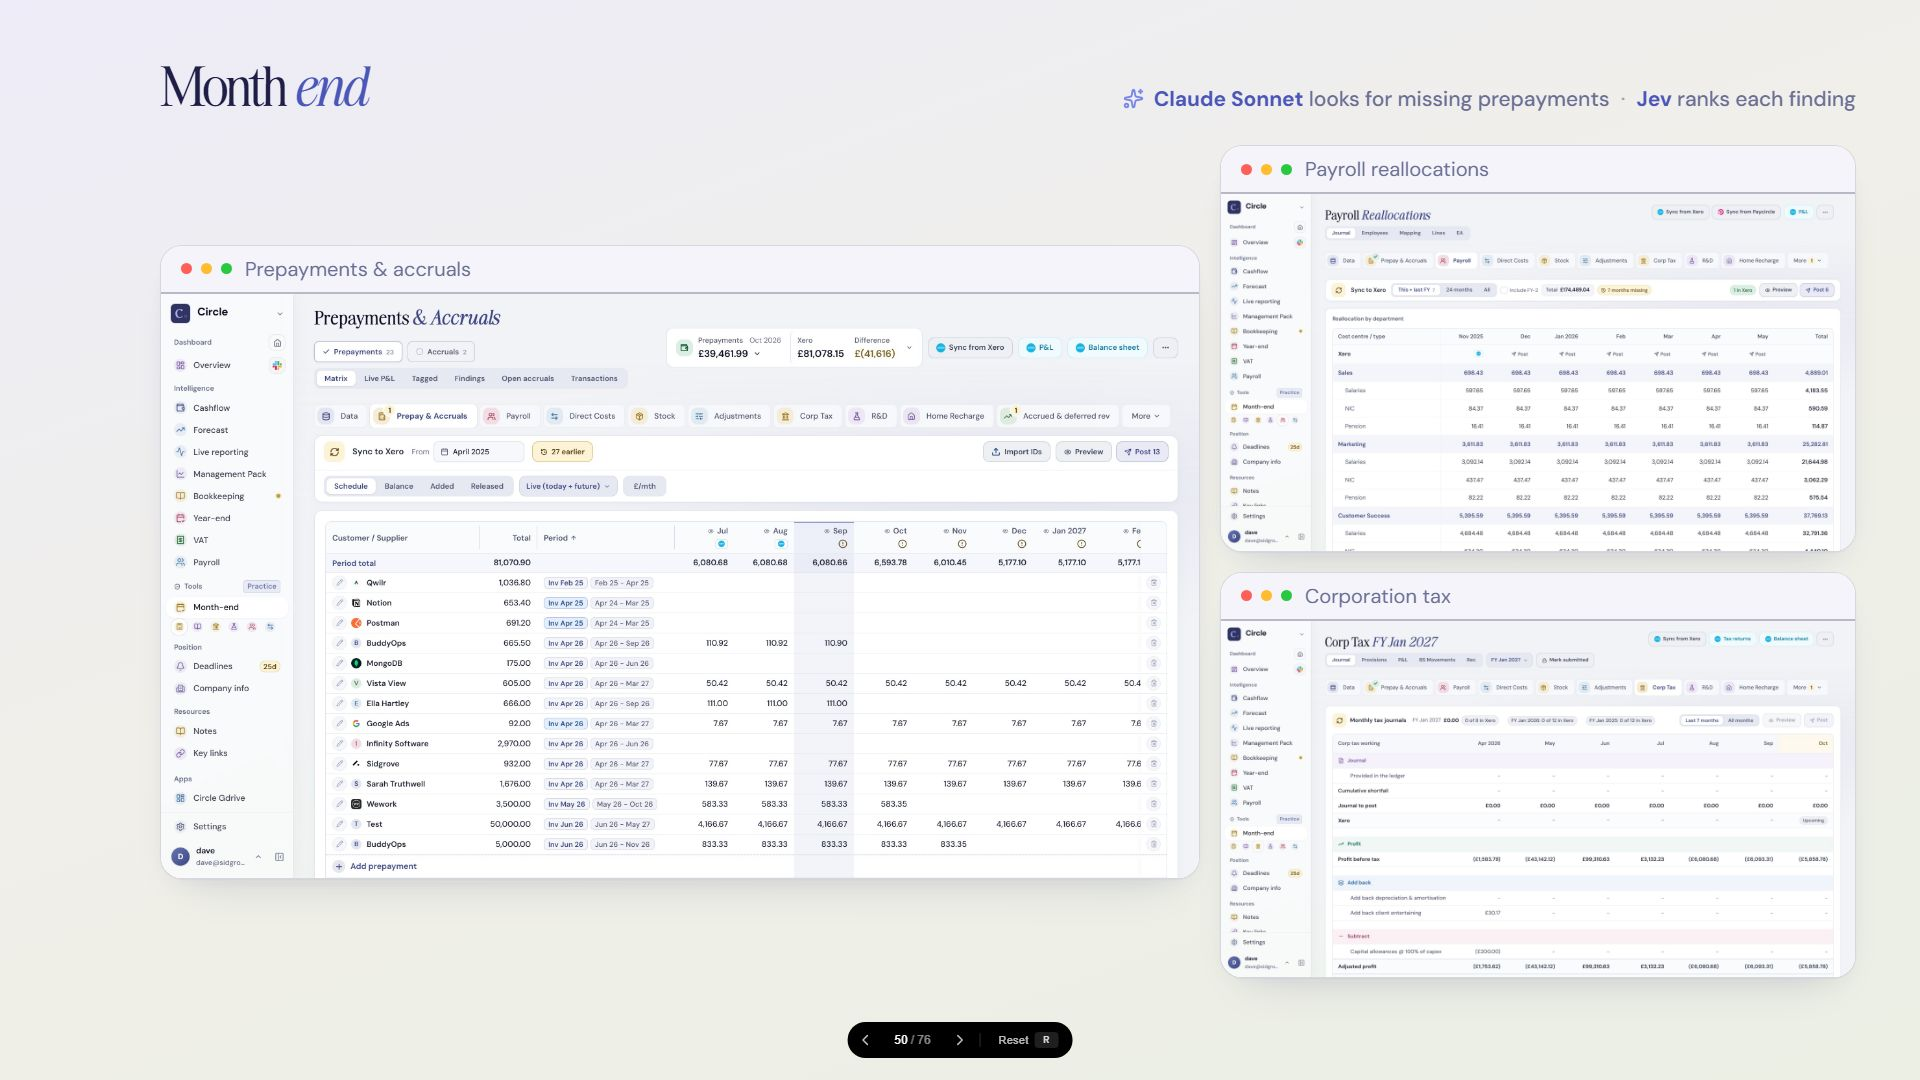
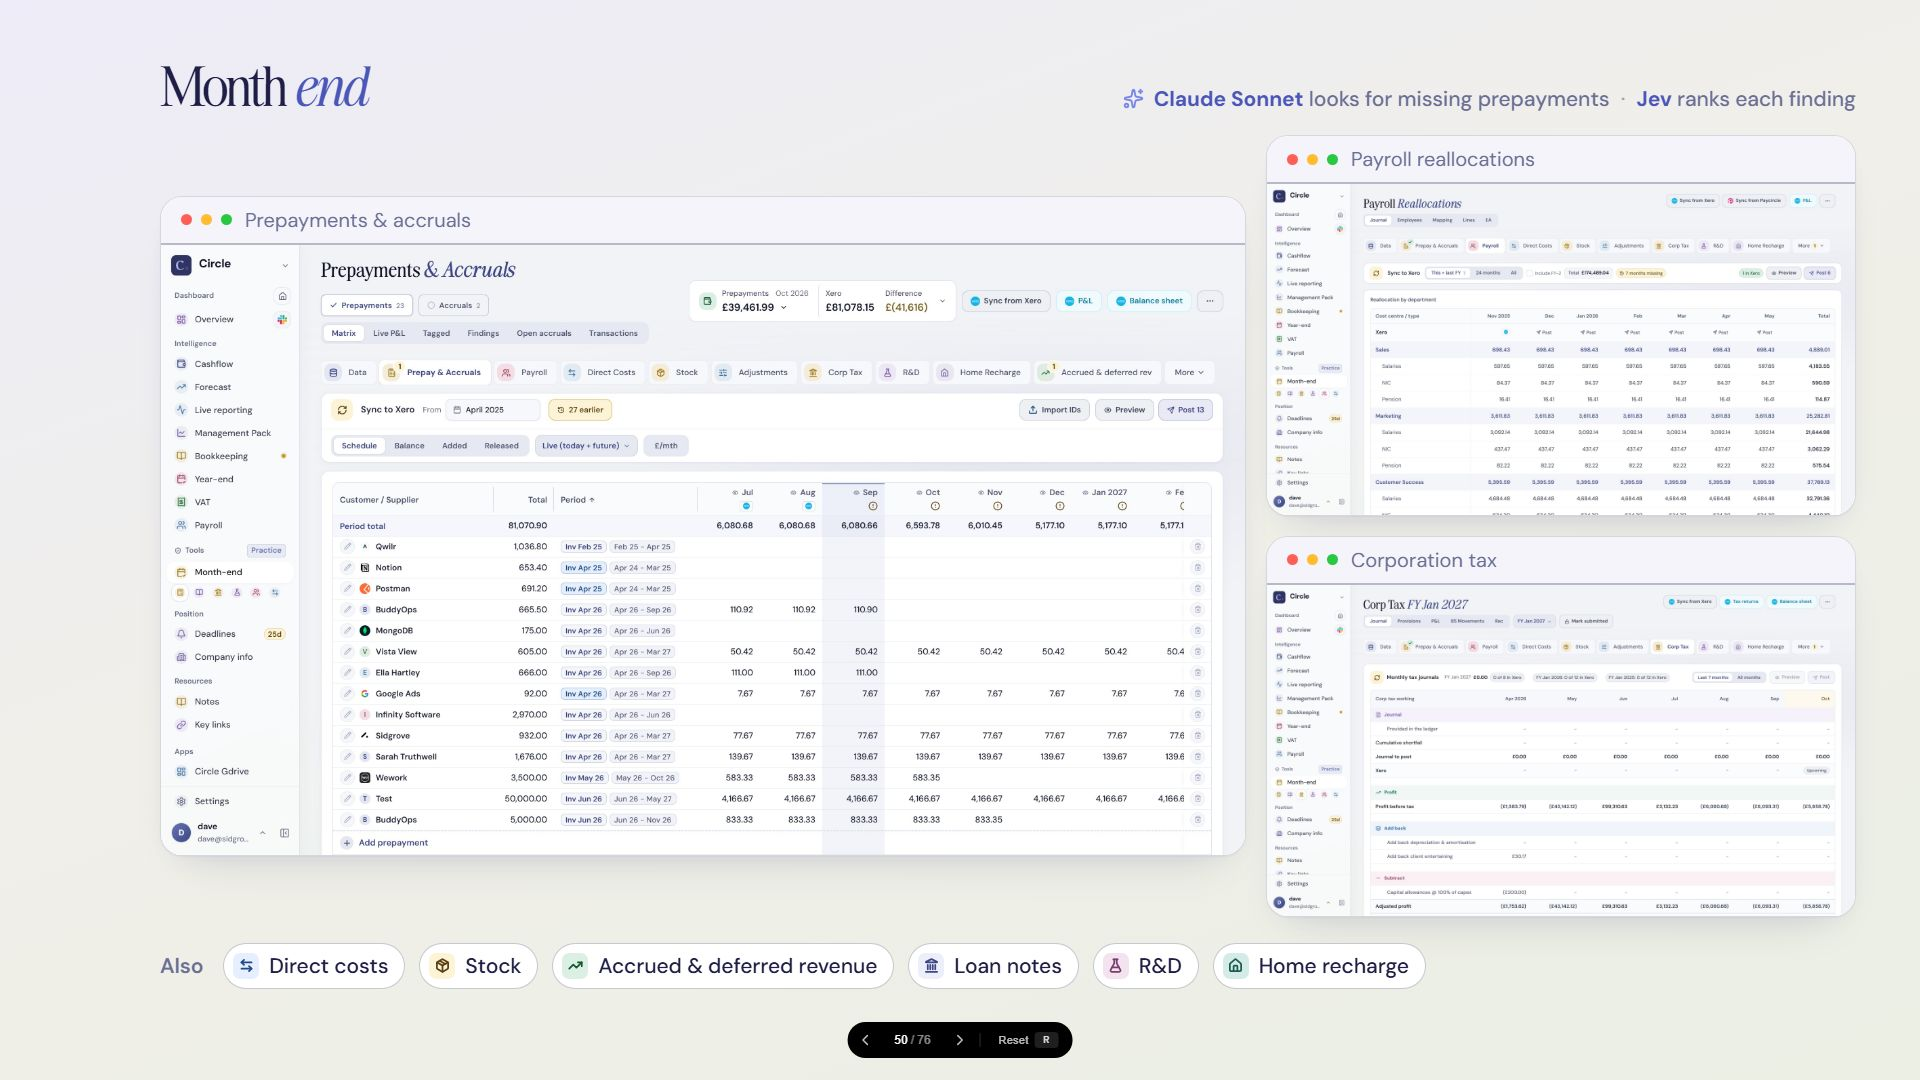
Auto Bank Wreck: month end names the other schedules as small tiles

diff --git a/presentations/auto-bank-wreck/index.html b/presentations/auto-bank-wreck/index.html
@@ -2986,7 +2986,7 @@ deck-stage { background: #0a0a0a; }
       <div class="topbar"><p class="section-tag">What works <em>· 02 build</em></p><span class="page-chip"></span></div>
 
       <div class="feat-head"><h2 class="display">Month <em>end</em></h2><p class="ai-note"><b>Claude Sonnet</b> looks for missing prepayments <i>·</i> <b>Jev</b> ranks each finding</p></div>
-      <div class="fill center-y">
+      <div class="fill center-y also-wrap">
         <div class="mosaic wide-side">
           <figure class="shot window"><img src="images/slides/41a-app-showcase/accruals-oct06b.jpg" alt="Circle prepayments and accruals schedule with supplier logos, synced to Xero"><figcaption>Prepayments &amp; accruals</figcaption></figure>
           <div class="mosaic-col">
@@ -2994,6 +2994,7 @@ deck-stage { background: #0a0a0a; }
             <figure class="shot window"><img src="images/slides/41a-app-showcase/corp-tax-oct06.jpg" alt="Corporation tax accrual, month by month"><figcaption>Corporation tax</figcaption></figure>
           </div>
         </div>
+        <p class="also-row"><span class="also-label">Also</span><span class="also-chip"><span class="sg-ico xs a-info" aria-hidden="true"><svg viewBox="0 0 24 24" aria-hidden="true"><path d="M8 3 4 7l4 4"/><path d="M4 7h16"/><path d="m16 21 4-4-4-4"/><path d="M20 17H4"/></svg></span>Direct costs</span><span class="also-chip"><span class="sg-ico xs a-amber" aria-hidden="true"><svg viewBox="0 0 24 24" aria-hidden="true"><path d="M11 21.73a2 2 0 0 0 2 0l7-4A2 2 0 0 0 21 16V8a2 2 0 0 0-1-1.73l-7-4a2 2 0 0 0-2 0l-7 4A2 2 0 0 0 3 8v8a2 2 0 0 0 1 1.73z"/><path d="M12 22V12"/><polyline points="3.29 7 12 12 20.71 7"/><path d="m7.5 4.27 9 5.15"/></svg></span>Stock</span><span class="also-chip"><span class="sg-ico xs a-emerald" aria-hidden="true"><svg viewBox="0 0 24 24" aria-hidden="true"><path d="M16 7h6v6"/><path d="m22 7-8.5 8.5-5-5L2 17"/></svg></span>Accrued &amp; deferred revenue</span><span class="also-chip"><span class="sg-ico xs a-brand" aria-hidden="true"><svg viewBox="0 0 24 24" aria-hidden="true"><path d="M10 18v-7"/><path d="M11.12 2.198a2 2 0 0 1 1.76.006l7.866 3.847c.476.233.31.949-.22.949H3.474c-.53 0-.695-.716-.22-.949z"/><path d="M14 18v-7"/><path d="M18 18v-7"/><path d="M3 22h18"/><path d="M6 18v-7"/></svg></span>Loan notes</span><span class="also-chip"><span class="sg-ico xs a-violet" aria-hidden="true"><svg viewBox="0 0 24 24" aria-hidden="true"><path d="M14 2v6a2 2 0 0 0 .245.96l5.51 10.08A2 2 0 0 1 18 22H6a2 2 0 0 1-1.755-2.96l5.51-10.08A2 2 0 0 0 10 8V2"/><path d="M6.453 15h11.094"/><path d="M8.5 2h7"/></svg></span>R&amp;D</span><span class="also-chip"><span class="sg-ico xs a-teal" aria-hidden="true"><svg viewBox="0 0 24 24" aria-hidden="true"><path d="M15 21v-8a1 1 0 0 0-1-1h-4a1 1 0 0 0-1 1v8"/><path d="M3 10a2 2 0 0 1 .709-1.528l7-6a2 2 0 0 1 2.582 0l7 6A2 2 0 0 1 21 10v9a2 2 0 0 1-2 2H5a2 2 0 0 1-2-2z"/></svg></span>Home recharge</span></p>
       </div>
 
       <div class="bottombar"></div>
@@ -5108,6 +5109,11 @@ html[data-screen="venue"] .mark { background: #FAD67C; }
 /* Month end: the schedule leads, two other schedules beside it large enough to read. */
 .mosaic.wide-side { grid-template-columns: 1040px 636px; align-items: center; }
 .mosaic.wide-side .mosaic-col { gap: 20px; justify-content: center; }
+/* Month end: the schedules not pictured, as quiet tiles under the screens. */
+.mosaic.wide-side { grid-template-columns: 1086px 590px; }
+.also-row { display: flex; align-items: center; gap: 14px; margin: 26px 0 0; width: calc(100% + 96px); }
+.also-label { font-family: var(--font-sans); font-size: 21px; font-weight: 600; color: var(--ink-300); margin-right: 6px; }
+.also-chip { display: inline-flex; align-items: center; gap: 10px; padding: 8px 16px 8px 9px; border-radius: 999px; background: var(--paper-card); border: 1px solid var(--presentation-outline); font-family: var(--font-sans); font-size: 21px; font-weight: 500; color: var(--ink); white-space: nowrap; }
 /* ══ Two looks, one deck ═══════════════════════════════════════════
    <html data-screen="standard"> is everything above: laptop, good monitor.
    <html data-screen="venue"> is the block below: a big, bright LCD in a lit
